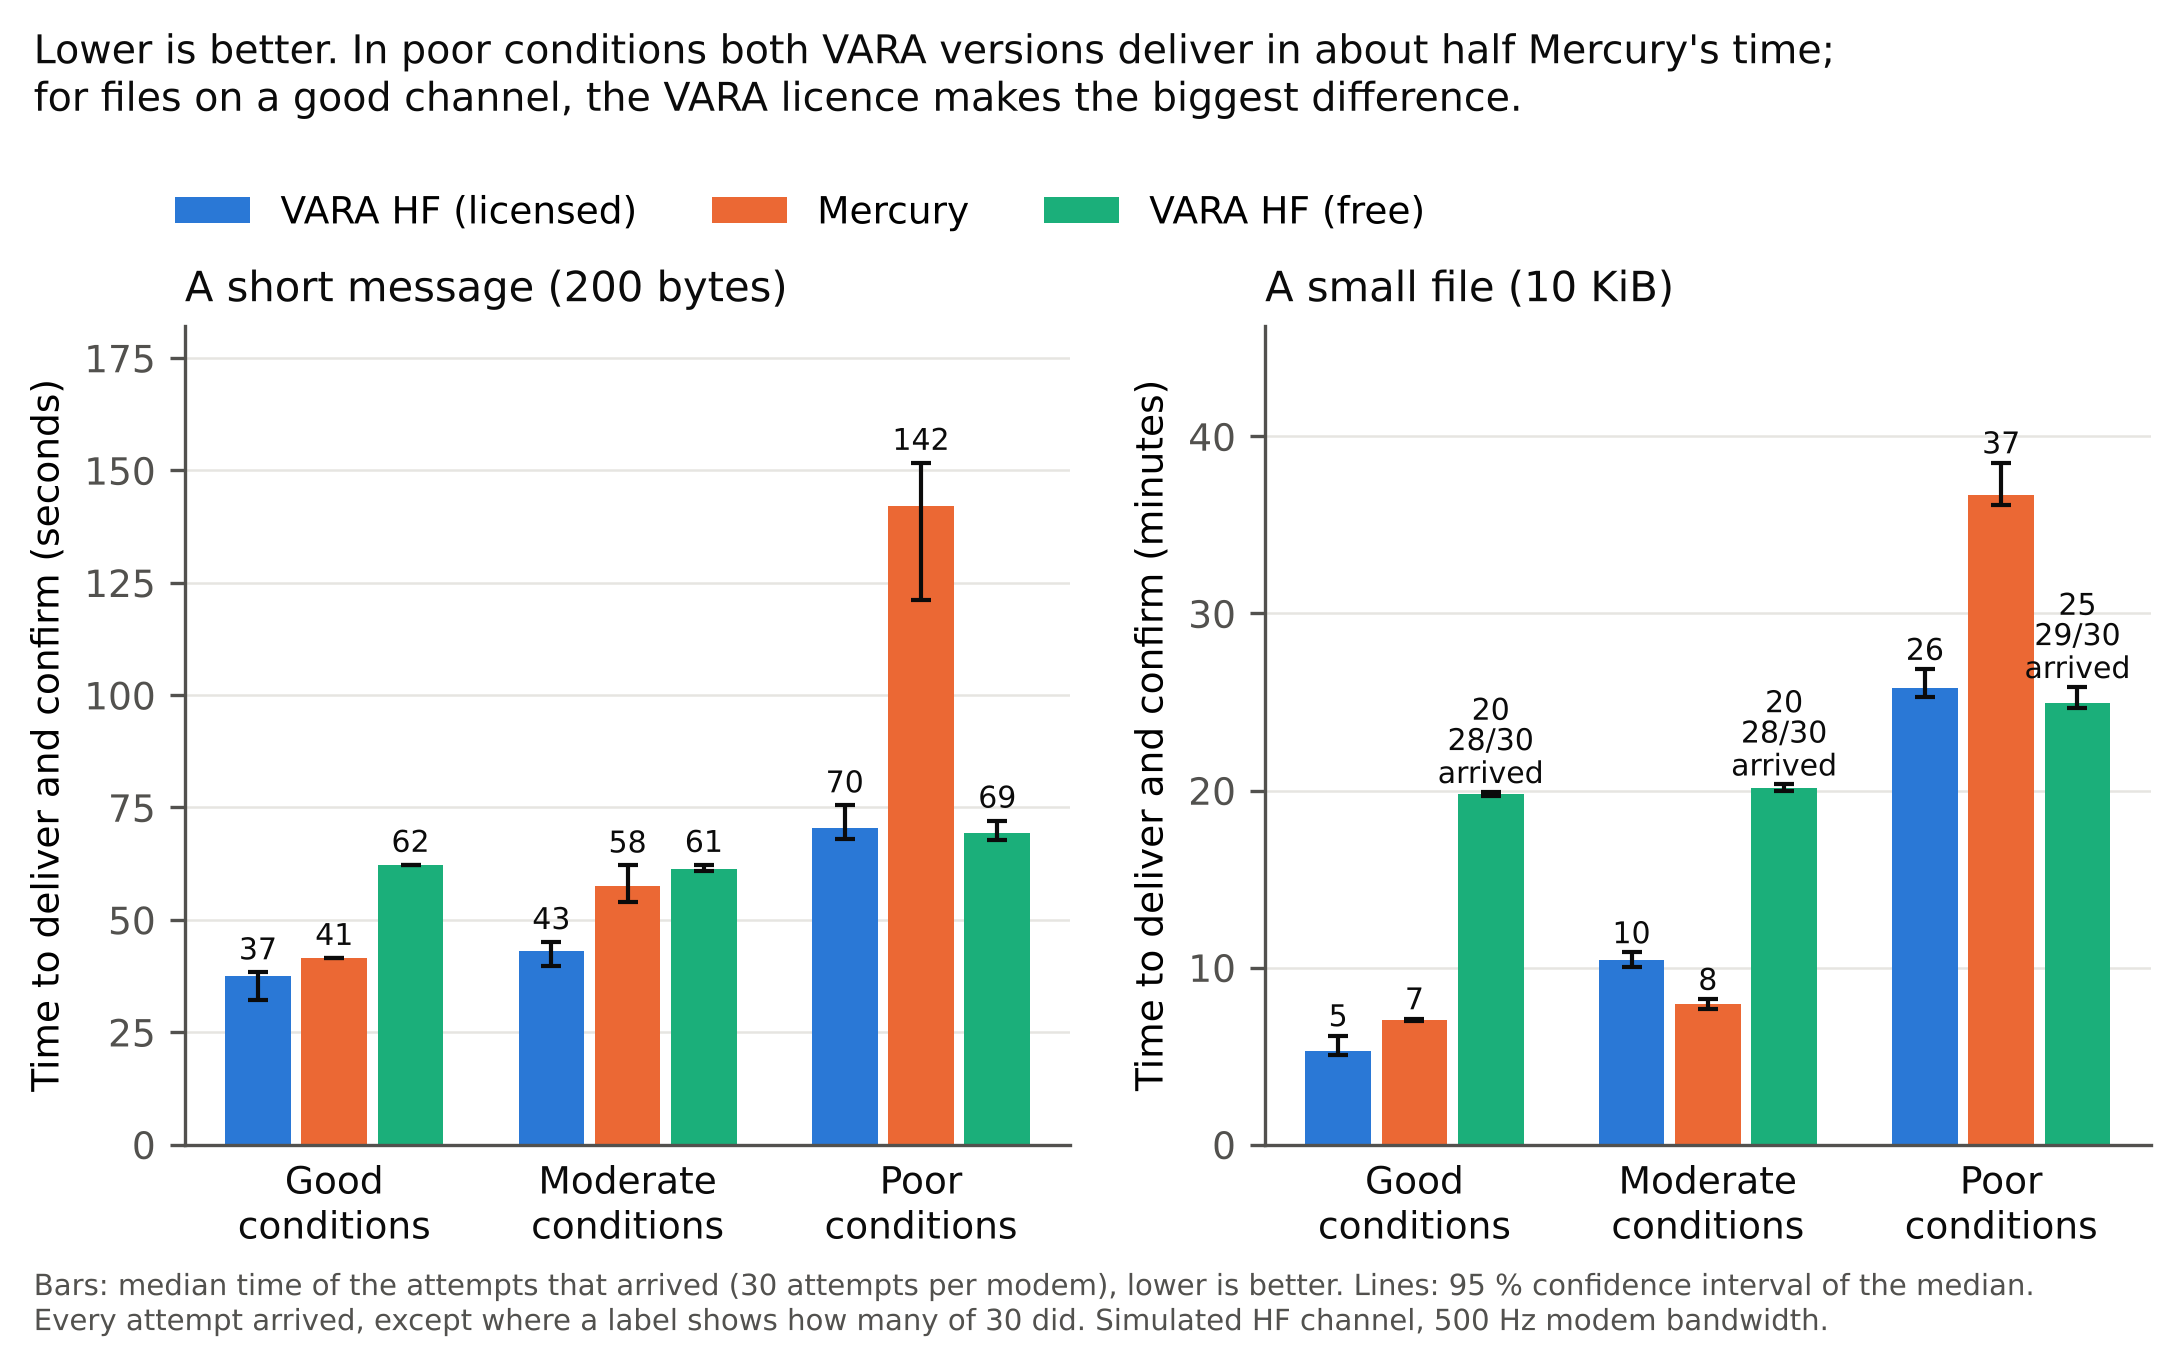
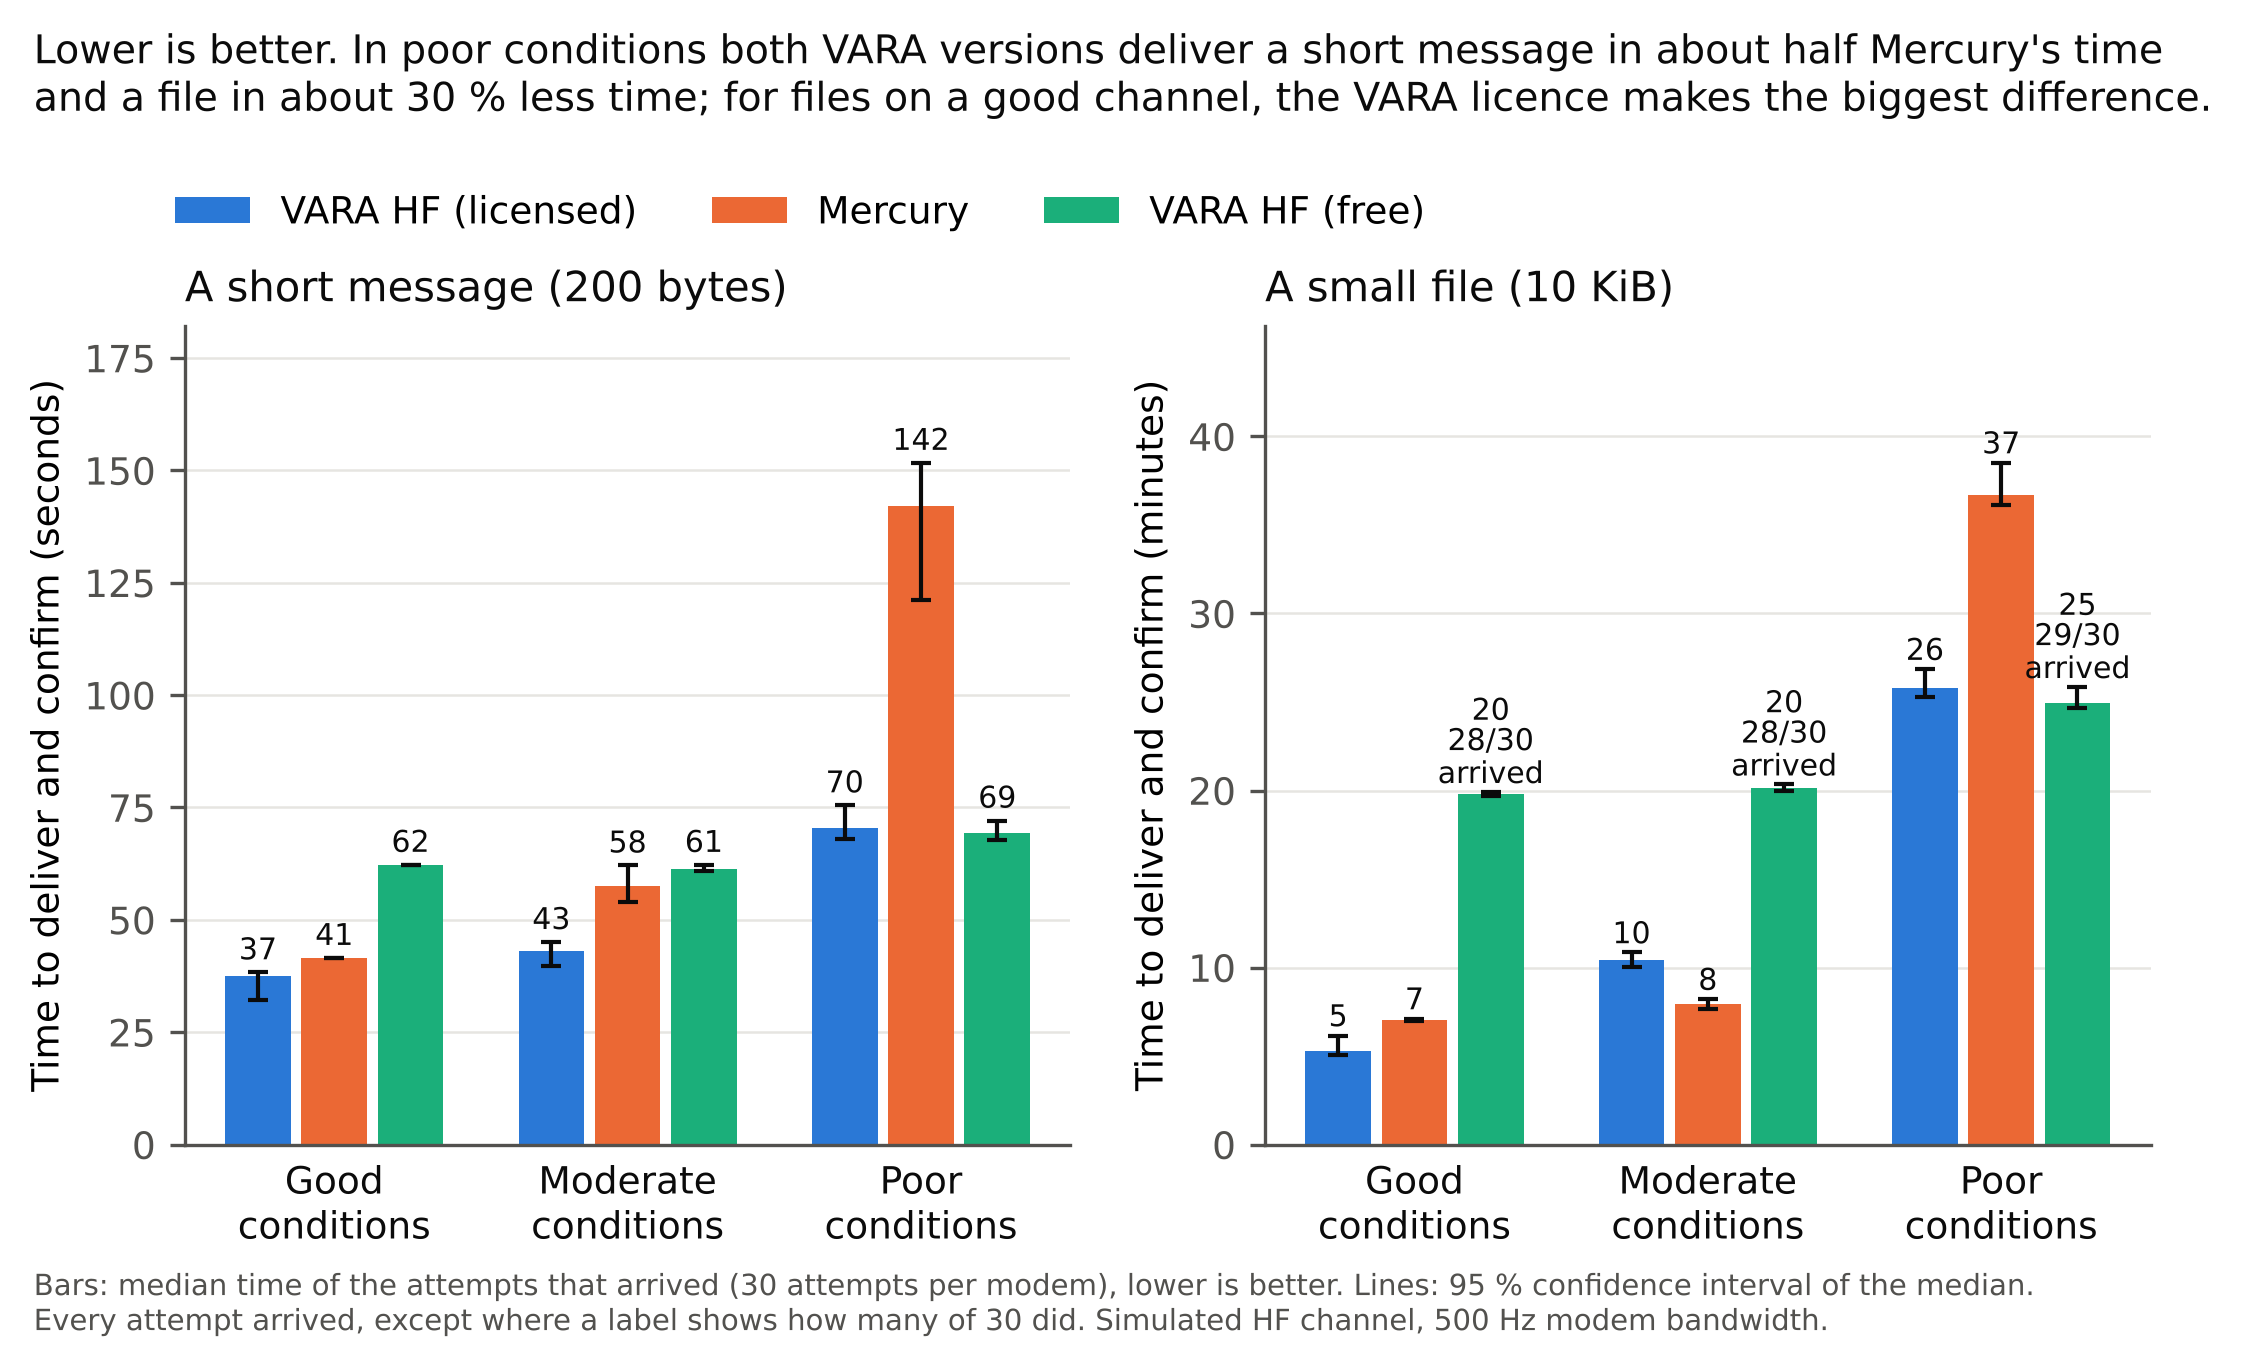
Summary figure: correct the Poor 10 KiB comparison (about 30 % less, not half) (#22)
Claude-Session: https://claude.ai/code/session_018zvWWq47g3PM6B7MGXZFk7

diff --git a/analysis/make_summary_figure.py b/analysis/make_summary_figure.py
@@ -49,8 +49,8 @@ for ax, (load, title, div, unit) in zip(axes, panels):
     ax.grid(axis="y", color=GRID, linewidth=0.6); ax.set_axisbelow(True)
 handles, labels = axes[0].get_legend_handles_labels()
 fig.legend(handles, labels, loc="upper left", bbox_to_anchor=(0.06, 0.885), ncol=3, frameon=False)
-fig.text(0.01, 0.985, "Lower is better. In poor conditions both VARA versions deliver in about half Mercury's time;\n"
-             "for files on a good channel, the VARA licence makes the biggest difference.", fontsize=9.5,
+fig.text(0.01, 0.985, "Lower is better. In poor conditions both VARA versions deliver a short message in about half Mercury's time\n"
+             "and a file in about 30 % less time; for files on a good channel, the VARA licence makes the biggest difference.", fontsize=9.5,
              color=INK, ha="left", va="top")
 fig.text(0.01, 0.045, "Bars: median time of the attempts that arrived (30 attempts per modem), lower is better. Lines: 95 % confidence interval of the median.\n"
          "Every attempt arrived, except where a label shows how many of 30 did. Simulated HF channel, 500 Hz modem bandwidth.",
